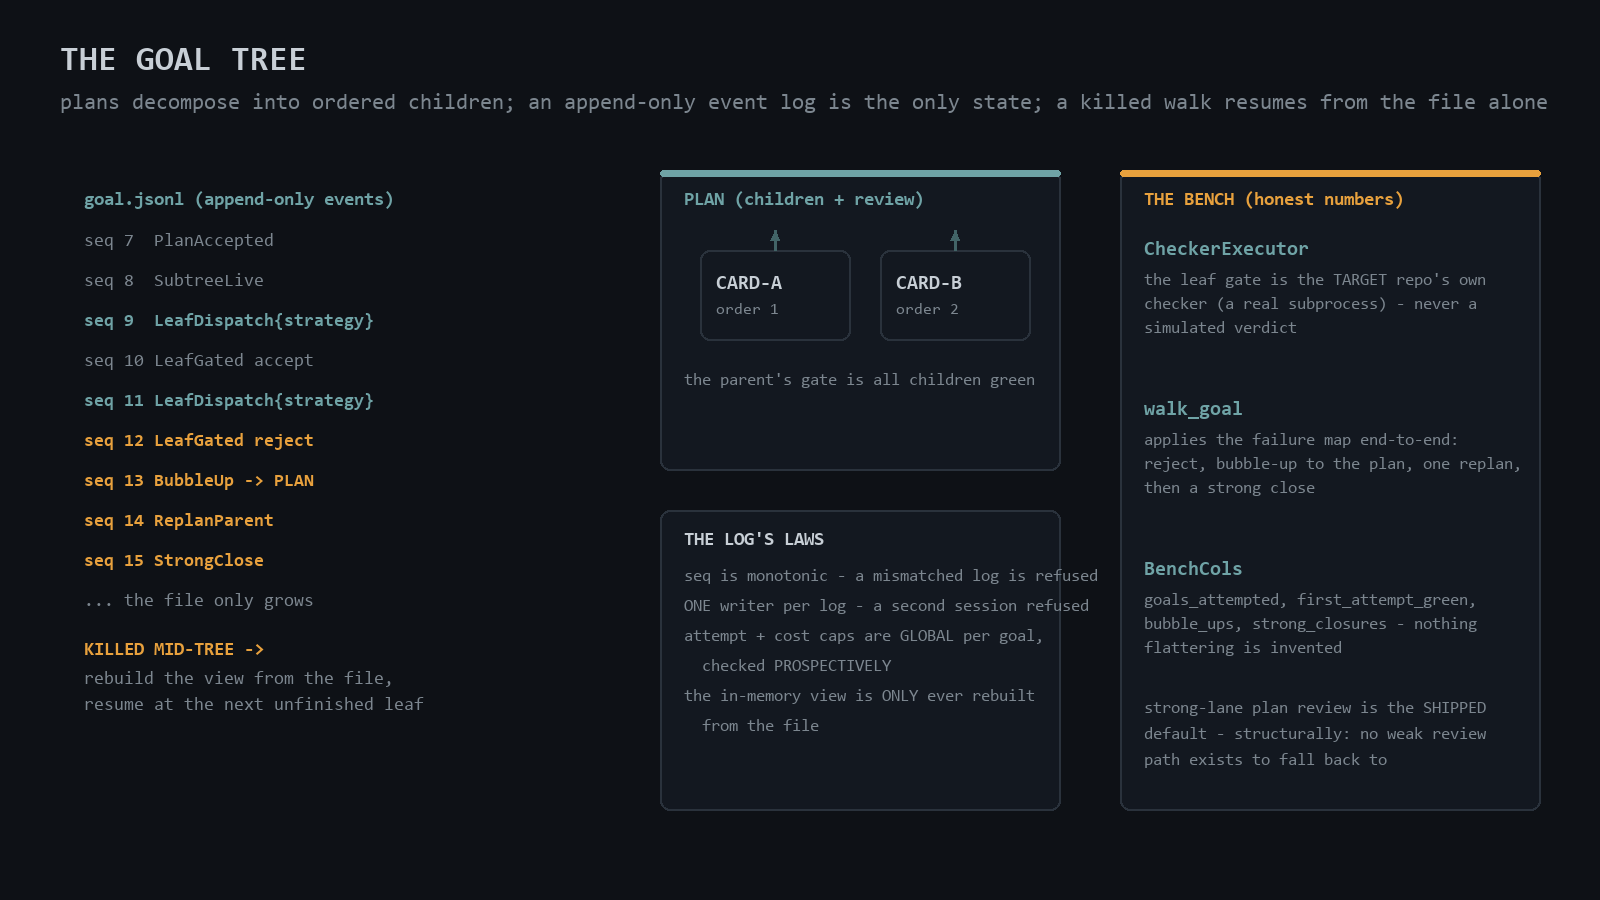
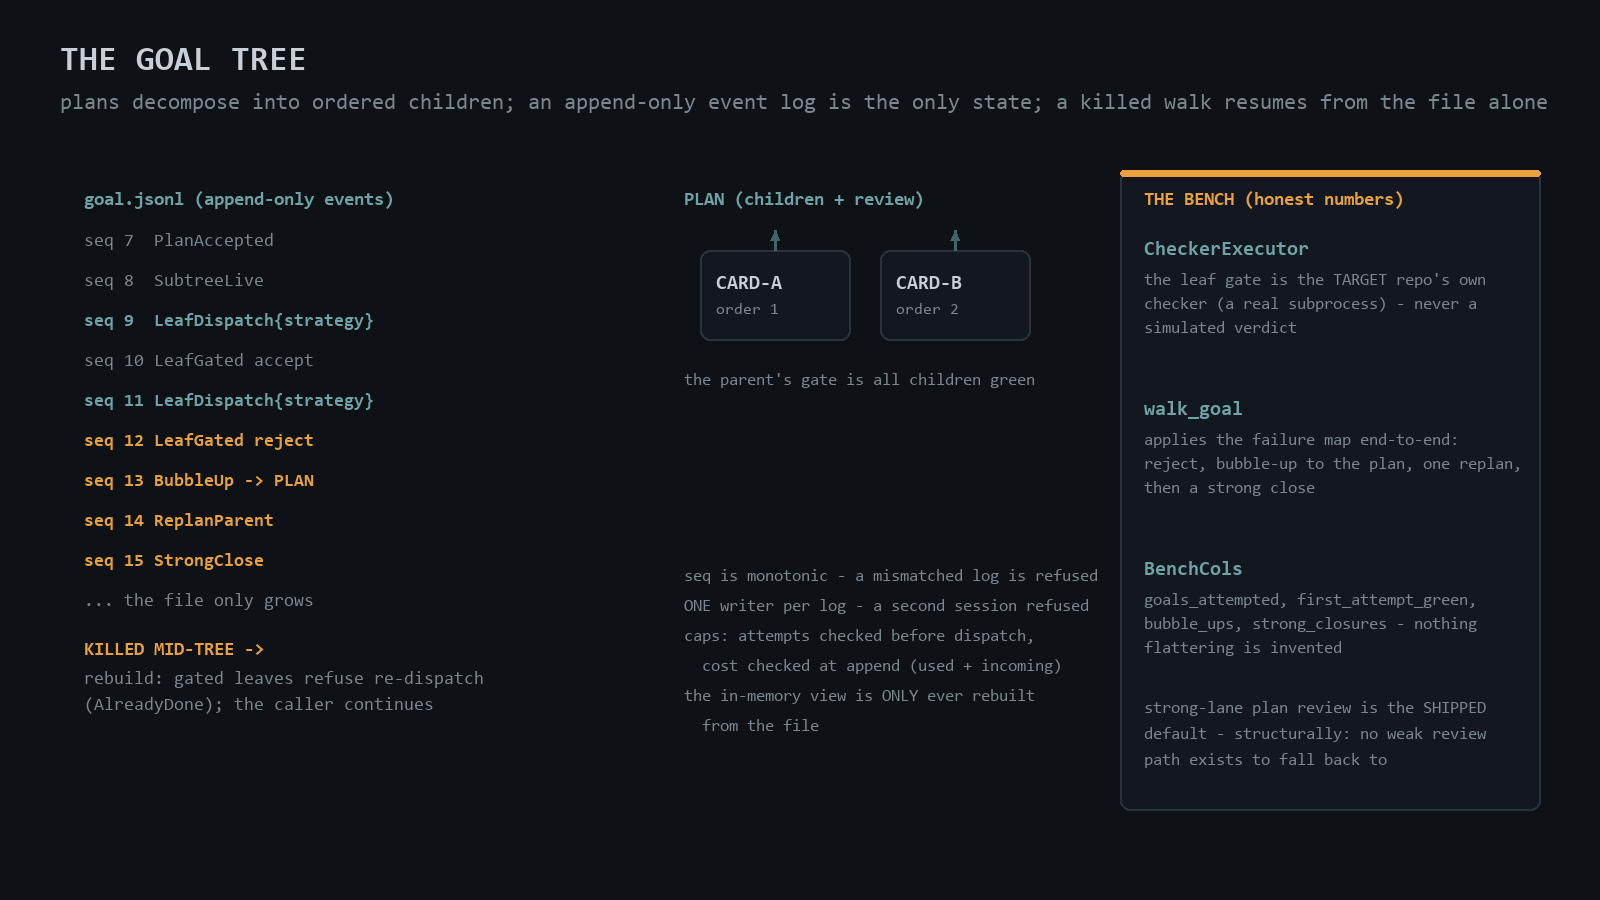
sentinel doc-reality r3: two-phase caps, AlreadyDone resume semantics (CARD-0099)

diff --git a/tools/assets/diagrams_work.py b/tools/assets/diagrams_work.py
@@ -161,11 +161,8 @@ def draw_tree():
     for i, (s, c) in enumerate(events):
         label(d, 84, 232 + i * 40, s, 18, c, bold=(c in (TEAL, AMBER)))
     label(d, 84, 640, "KILLED MID-TREE ->", 19, AMBER, bold=True)
-    label(d, 84, 670, "rebuild the view from the file,", 18)
-    label(d, 84, 696, "resume at the next unfinished leaf", 18)
-
-    # the tree shape
-    panel(d, 660, 170, 400, 300, None, accent=TEAL)
+    label(d, 84, 670, "rebuild: gated leaves refuse re-dispatch", 18)
+    label(d, 84, 696, "(AlreadyDone); the caller continues", 18)
     label(d, 684, 190, "PLAN (children + review)", 19, TEAL, bold=True)
     panel(d, 700, 250, 150, 90, None)
     label(d, 716, 274, "CARD-A", 20, TEXT, bold=True)
@@ -178,13 +175,11 @@ def draw_tree():
     label(d, 684, 372, "the parent's gate is all children green", 17, DIM)
 
     # the laws of the log
-    panel(d, 660, 510, 400, 300, None)
-    label(d, 684, 530, "THE LOG'S LAWS", 19, TEXT, bold=True)
     for i, q in enumerate([
         "seq is monotonic - a mismatched log is refused",
         "ONE writer per log - a second session refused",
-        "attempt + cost caps are GLOBAL per goal,",
-        "  checked PROSPECTIVELY",
+        "caps: attempts checked before dispatch,",
+        "  cost checked at append (used + incoming)",
         "the in-memory view is ONLY ever rebuilt",
         "  from the file",
     ]):

diff --git a/README.md b/README.md
@@ -249,15 +249,19 @@ The log's laws are the tree's whole durability story:
 
 - **Events are append-only.** `seq` is monotonic; a log that mismatches its
   own sequence is refused at load.
-- **One writer per log.** The orchestrating session owns it; a second session
-  attaching to the same log is refused.
-- **Caps are global per goal.** Attempt and cost caps are checked
-  prospectively — used + incoming above cap refuses, before the spend
-  happens.
-- **The view is rebuilt, not remembered.** The in-memory state is only ever
-  reconstructed from the file — which is what makes **kill-mid-tree resume**
-  real: kill the walk anywhere, restart, and the walker picks up at the next
-  unfinished leaf from the log alone.
+- **One writer per log.** The orchestrating session owns it; a second
+  session attaching to the same log is refused.
+- **Caps are global per goal, checked in two phases.** Before a
+  dispatch, `can_dispatch` refuses when attempts used already sit at
+  the cap; after the executor returns, the append refuses when
+  used + incoming cost would exceed the cap — the row that breaks the
+  budget never lands.
+- **The view is rebuilt, not remembered.** The in-memory state is only
+  ever reconstructed from the file — which is what makes
+  **kill-mid-tree resume** real: restart after a kill, the rebuild
+  shows every gated leaf, a re-dispatch of a finished one refuses with
+  AlreadyDone, and the caller continues with the next unfinished
+  child.
 - **Failures bubble.** A rejected leaf does not vanish: the failure map
   bubbles up to the plan, which may replan exactly once before a strong
   close.
